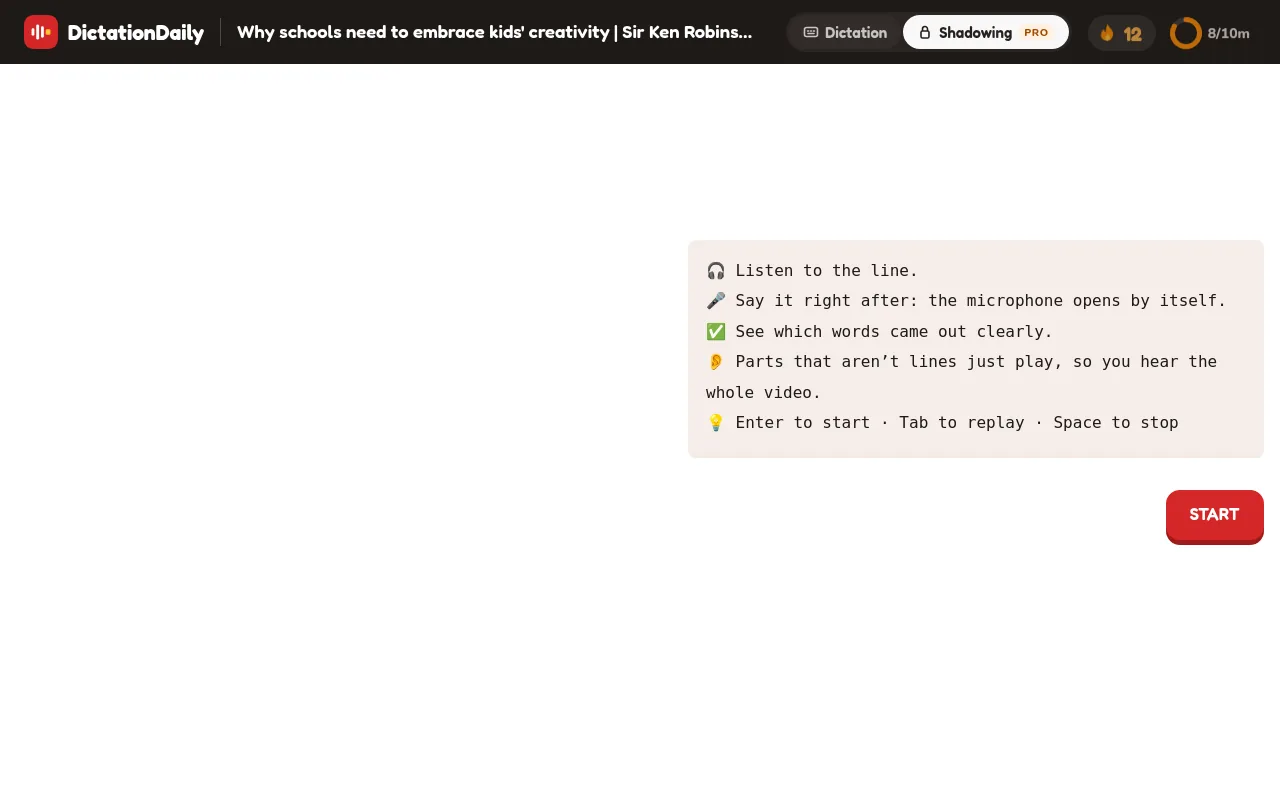
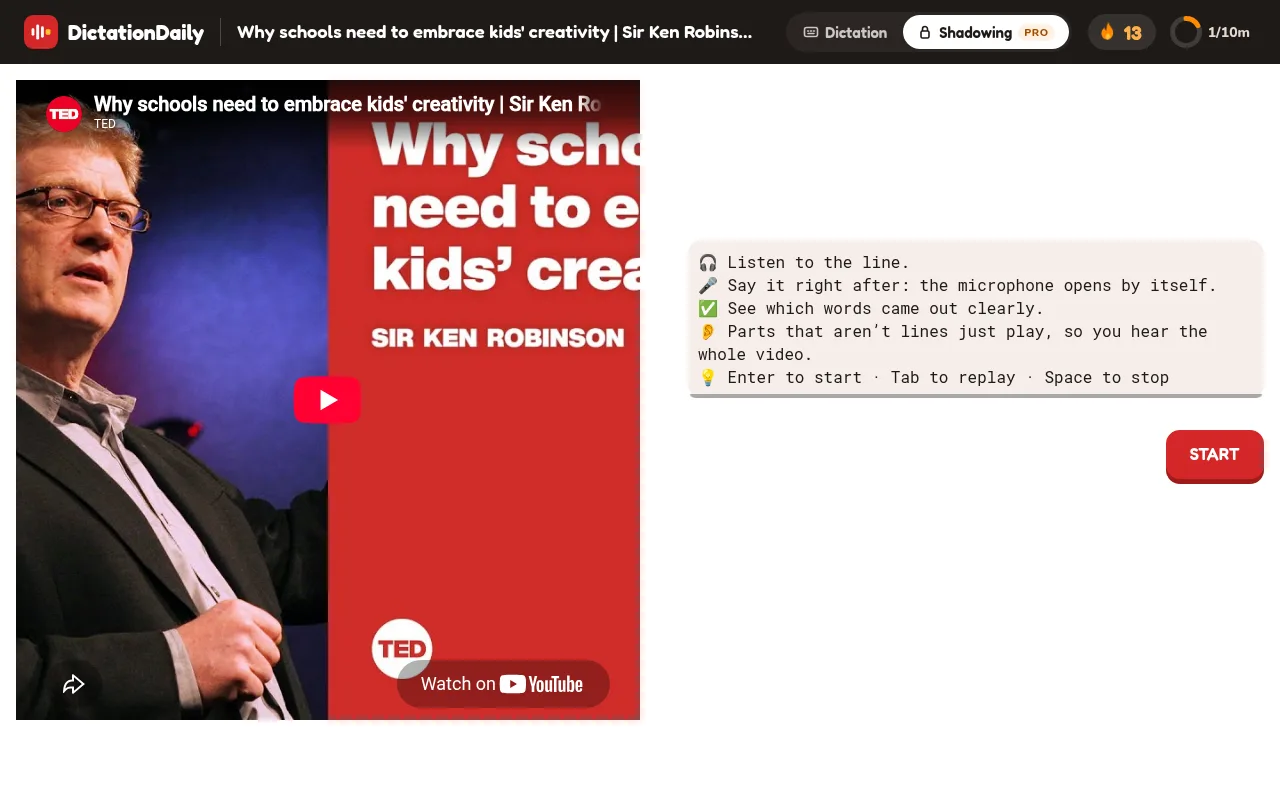
Shadowing guide: green microphone with a wave and sounds, sign-in gate, iPhone note

diff --git a/src/pages/shadowing.html b/src/pages/shadowing.html
@@ -15,7 +15,7 @@
 <h2>One line in four taps</h2>
 <div class="cards not-prose">
     <div class="card"><p class="card-icon">🎧</p><p class="card-title">1. Listen</p><p class="card-text">The line plays by itself and the words light up. <strong>REPLAY</strong> (or <kbd>Tab</kbd>) plays it again; <strong>0.75×</strong> plays it slower.</p></div>
-    <div class="card"><p class="card-icon">🎤</p><p class="card-title">2. Say it</p><p class="card-text">When the line ends the microphone opens by itself: the button turns black and a red ring follows your voice. Say the line at your pace. It stops by itself once you go quiet (or tap it, or <kbd>Space</kbd>).</p></div>
+    <div class="card"><p class="card-icon">🎤</p><p class="card-title">2. Say it</p><p class="card-text">When the line ends the microphone opens by itself: a short sound plays and the button turns green, with a small wave inside that moves with your voice. Say the line at your pace. It stops by itself once you go quiet (or tap it, or <kbd>Space</kbd>), with a lower sound.</p></div>
     <div class="card"><p class="card-icon">✅</p><p class="card-title">3. See the result</p><p class="card-text">Green words were heard clearly, red underlined ones were not. The ear button plays your take; the red button opens the microphone again.</p></div>
     <div class="card"><p class="card-icon">➡</p><p class="card-title">4. Continue</p><p class="card-text"><strong>CONTINUE</strong> (or <kbd>Enter</kbd>) moves on, and the next line plays by itself.</p></div>
 </div>
@@ -46,7 +46,7 @@
 
 <h2>On your phone</h2>
 <p>Shadowing works on phones too: the player is on top, the card under it. The first time, your browser asks for permission to use the microphone.</p>
-<shot src="shadowing-phone" caption="Shadowing on a phone: the microphone is open." alt="The Shadowing card on a phone: REPLAY and 0.75×, the line, and the black microphone button with Say it now under it">
+<shot src="shadowing-phone" caption="Shadowing on a phone: the microphone is open." alt="The Shadowing card on a phone: REPLAY and 0.75×, the line, and the green microphone button with a wave inside and Say it now under it">
 
 <h2>Your privacy</h2>
 <p>Your recording is sent to a speech-to-text model to find out which words were said, and then dropped. Nothing you record is stored, and nobody listens to it. Each account can run a number of checks per day; after that, recording and playback still work, and the word check comes back the next day.</p>
@@ -55,7 +55,9 @@
 <div class="faq">
     <details><summary>The record button says microphone access is needed</summary><p>Allow the microphone for dictationdaily.com in your browser's site settings, then reload the page.</p></details>
     <details><summary>“This browser can't record audio”</summary><p>Use a recent Chrome, Edge, Firefox or Safari.</p></details>
-    <details><summary>The score is 0% and the ring never moved</summary><p>The microphone heard nothing. Record closer to it, or check which microphone your system uses, then tap the red button for another go. The button turning black is the sign it is open.</p></details>
+    <details><summary>The score is 0% and the ring never moved</summary><p>The microphone heard nothing. Record closer to it, or check which microphone your system uses, then tap the red button for another go. The button turning green is the sign it is open.</p></details>
     <details><summary>Recording stops before I finish</summary><p>It stops after about two seconds of quiet. Keep the pauses between your words shorter than that; tapping the button stops it only when you want.</p></details>
+    <details><summary>The start screen says SIGN IN TO START</summary><p>The checks need an account, and a free one is enough: sign in with Google and the START button comes back. If a result says “Sign in to have your takes checked”, your session ended: sign in again and record the line once more.</p></details>
+    <details><summary>On iPhone the microphone doesn't close by itself</summary><p>Tap the green button when you have finished. It closes on its own at the latest a few seconds after the line's length.</p></details>
     <details><summary>“We couldn't check this take”</summary><p>The speech service didn't answer. You can still play your take next to the speaker's, or record again.</p></details>
 </div>
